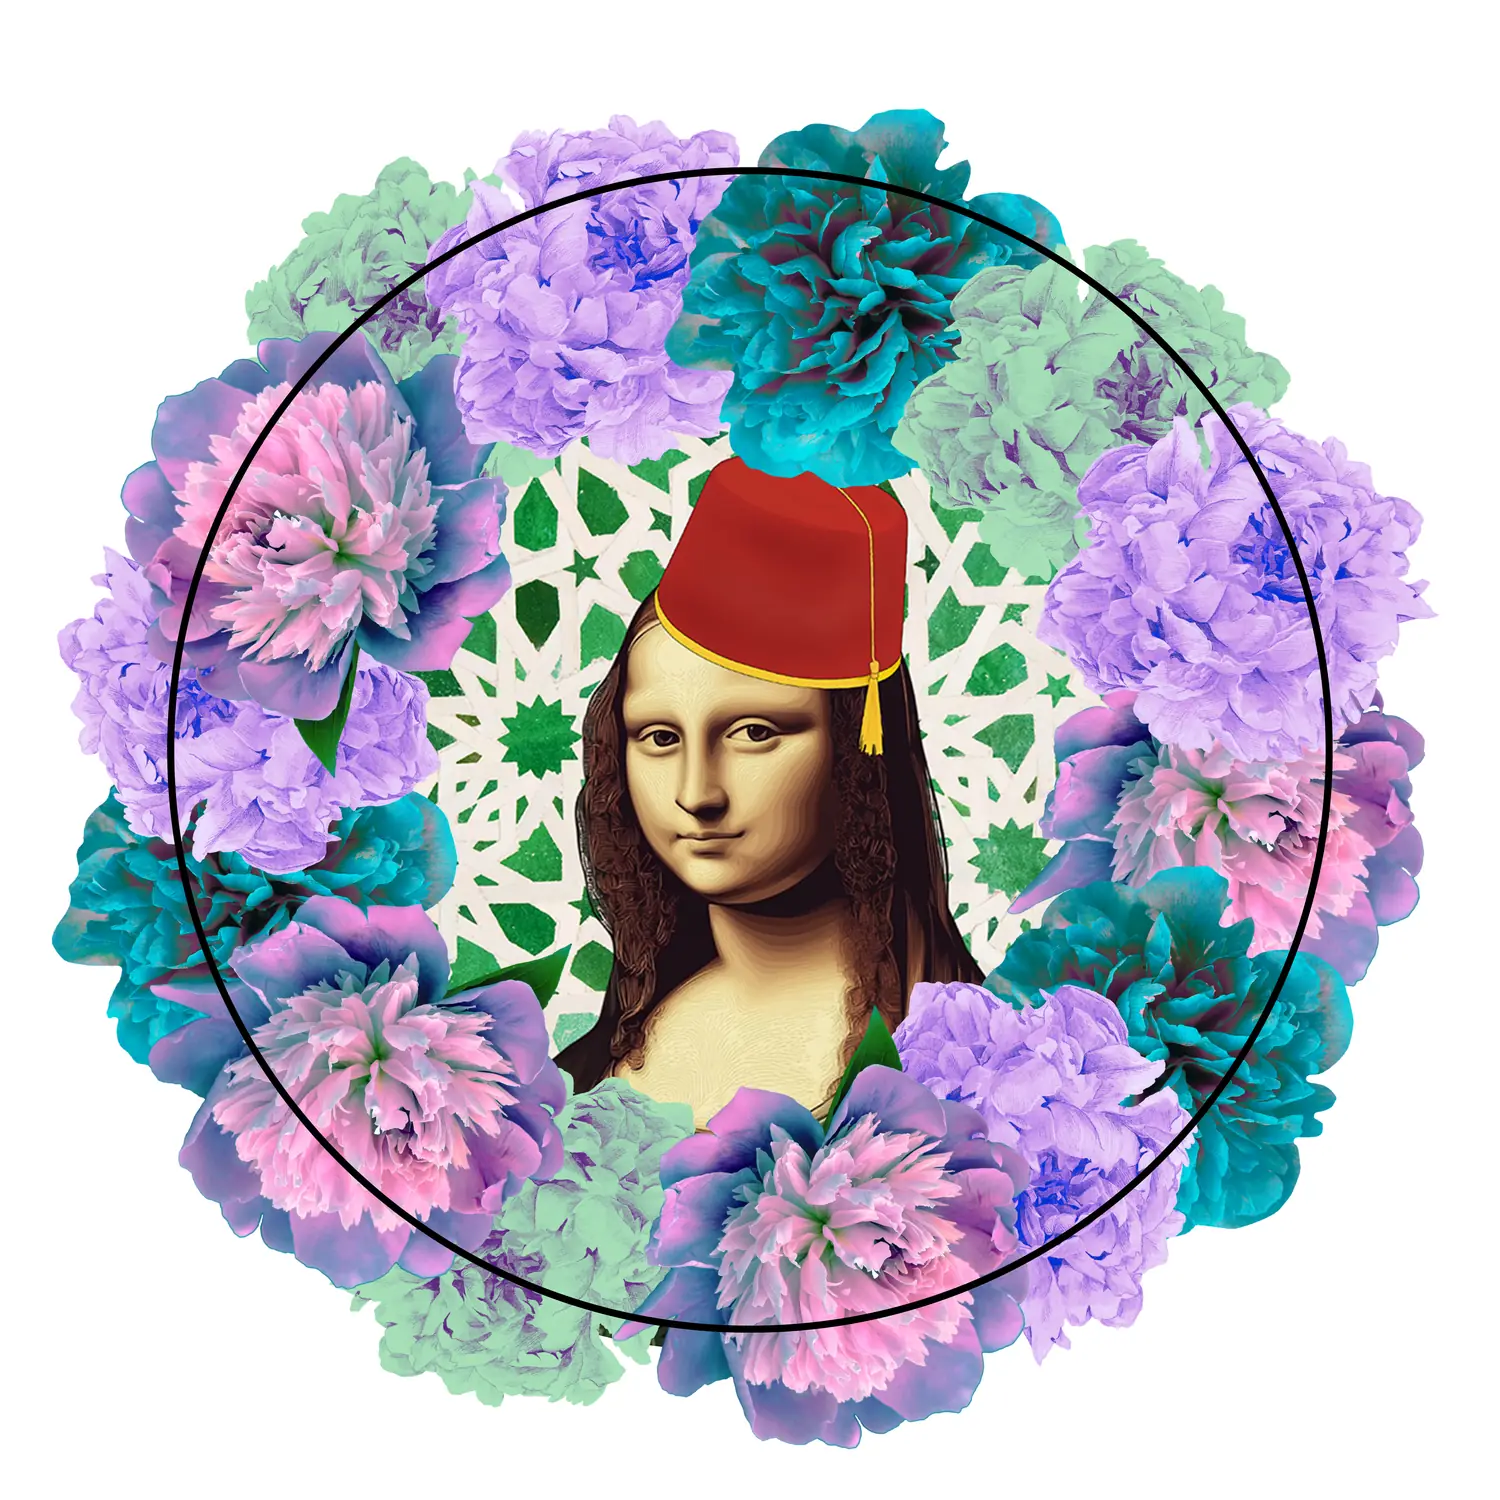
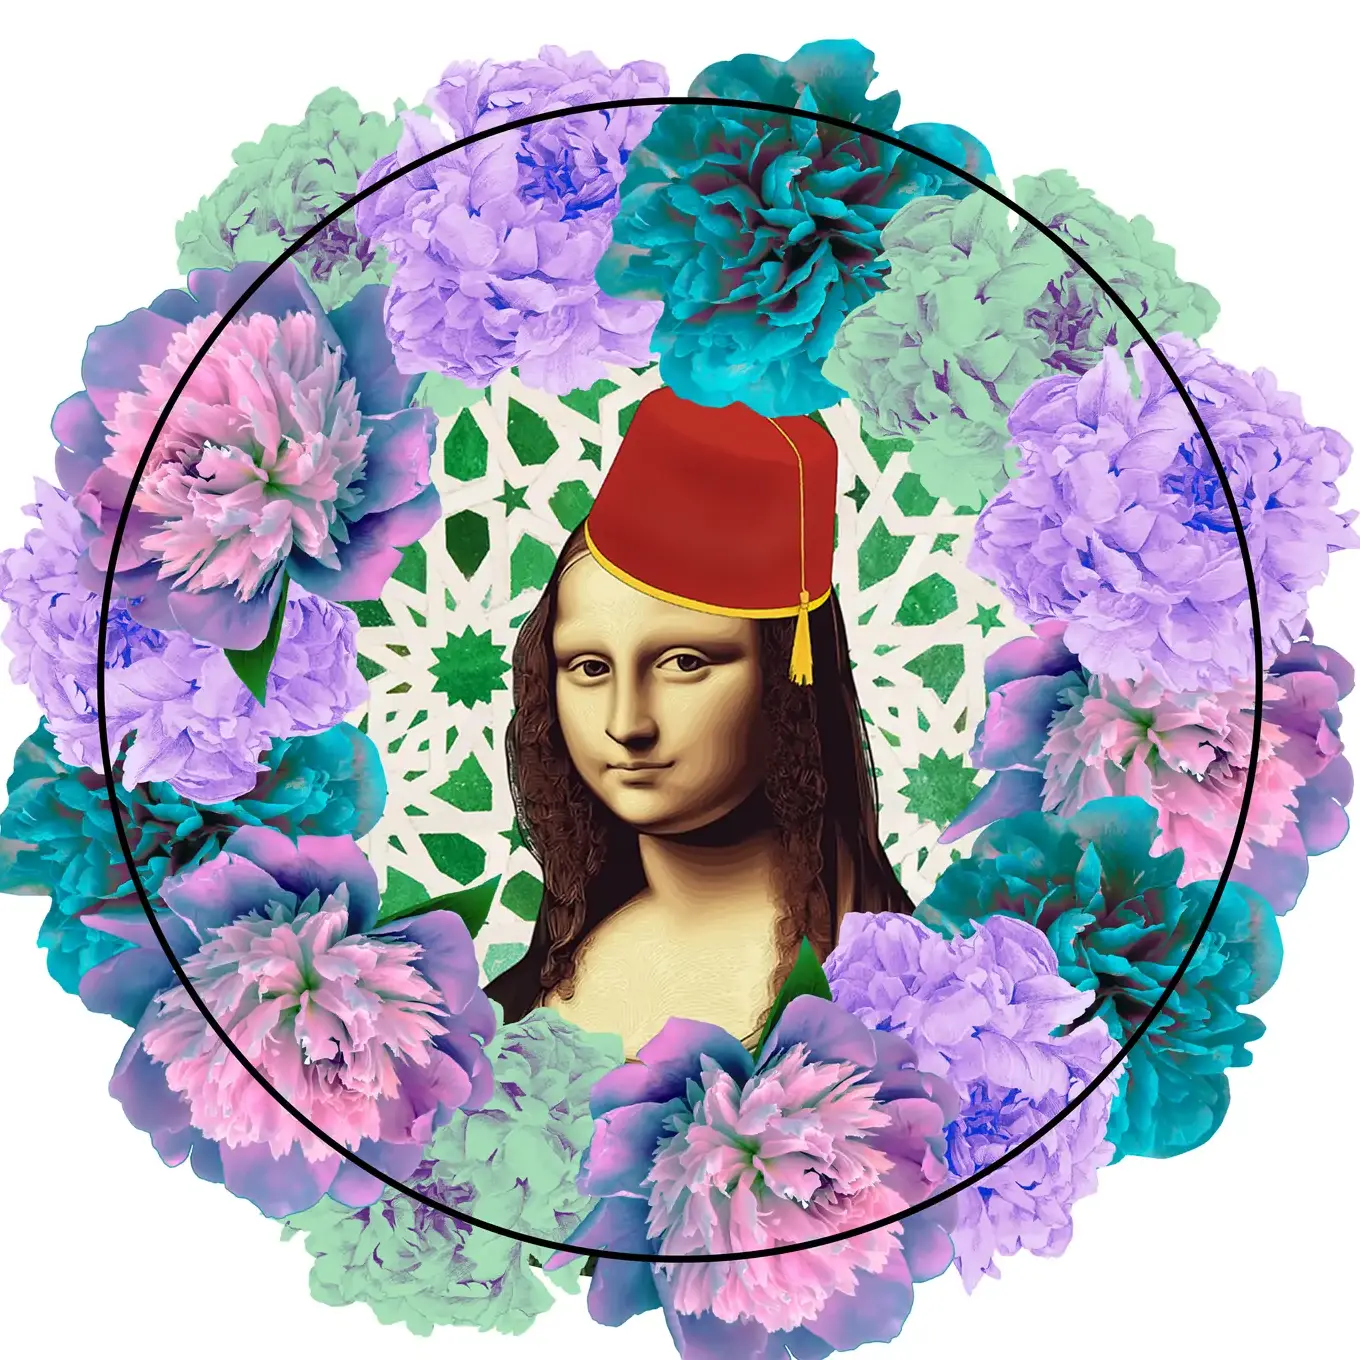
eden: crop round tables to their drawn table-edge, make Poppy Hobb round
The round pieces are square photos with the round table-edge drawn inside.
Crop each to that circle so the CSS round tile aligns with the table edge:
- Mouna Lisa: remove white corners so the floral tondo fills
- Al Kass Hlou: crop to the outer tea-tray circle
- Poppy Hobb: crop to the black table-edge (was showing the square lace
  backdrop) and display it round

Claude-Session: https://claude.ai/code/session_01BUbMbFhK7hbmxVKB26i5cL

diff --git a/eden-and-beyond/poppy-hobb.html b/eden-and-beyond/poppy-hobb.html
@@ -68,7 +68,7 @@
 <nav class="wrap breadcrumb" aria-label="Breadcrumb"><ol><li><a href="index.html">Home</a></li><li class="sep" aria-hidden="true">›</li><li><a href="collection.html">Collection</a></li><li class="sep" aria-hidden="true">›</li><li aria-current="page">Poppy Hobb</li></ol></nav>
 <section class="section" style="padding-top:1.4rem;"><div class="wrap">
   <div class="piece">
-    <div class="piece__media reveal"><img src="assets/img/poppy-queen.webp" alt="Poppy Hobb — Limited-edition table, Eden &amp; Beyond by Maija" fetchpriority="high"></div>
+    <div class="piece__media piece__media--round reveal"><img src="assets/img/poppy-queen.webp" alt="Poppy Hobb — Limited-edition table, Eden &amp; Beyond by Maija" fetchpriority="high"></div>
     <div class="piece__body reveal" data-delay="1">
       <span class="eyebrow eyebrow--red">Limited-edition table</span>
       <h1>Poppy Hobb</h1>

diff --git a/eden-and-beyond/collection.html b/eden-and-beyond/collection.html
@@ -158,7 +158,7 @@
       <div class="art__cap"><span class="art__title">Taxi Superlux</span>
       <span class="art__meta">Limited-edition table</span></div>
     </a>
-    <a class="art reveal" href="poppy-hobb.html" id="poppy-hobb">
+    <a class="art art--round reveal" href="poppy-hobb.html" id="poppy-hobb">
       <div class="art__media"><img src="assets/img/poppy-queen.webp" alt="Poppy Hobb — Limited-edition table, Eden &amp; Beyond" loading="lazy"></div>
       <div class="art__cap"><span class="art__title">Poppy Hobb</span>
       <span class="art__meta">Limited-edition table</span></div>

diff --git a/eden-and-beyond/build/build.py b/eden-and-beyond/build/build.py
@@ -671,7 +671,7 @@ COLLECTION = [
         ("qif",                 "Qif",                   "Limited-edition table", "",           "ph--electric", "qif-stop-sign"),
         ("qif-in-the-oasis",    "Qif in the Oasis",      "Limited-edition table", "",           "ph--magenta",  "desert-caravan-neon"),
         ("taxi-superlux",       "Taxi Superlux",         "Limited-edition table", "",           "ph--electric", "taxi-superlux"),
-        ("poppy-hobb",          "Poppy Hobb",            "Limited-edition table", "",           "ph--poppy",    "poppy-queen"),
+        ("poppy-hobb",          "Poppy Hobb",            "Limited-edition table", "art--round", "ph--poppy",    "poppy-queen"),
         ("mouna-lisa",          "Mouna Lisa",            "Limited-edition table", "art--round", "ph--teal",     "mona-lisa-fez"),
      ]),
     ("lighting", "Lighting",
@@ -697,7 +697,7 @@ COLLECTION = [
 
 # ---- Per-piece caption pages (Maija's texts, verbatim). Blank line = new stanza.
 CAPTIONS = {
-    "poppy-hobb": dict(title="Poppy Hobb", kicker="Limited-edition table", img="poppy-queen", shape="",
+    "poppy-hobb": dict(title="Poppy Hobb", kicker="Limited-edition table", img="poppy-queen", shape="round",
         lead="She looks soft. She isn't.", text="""She looks soft.
 She isn't.
 
